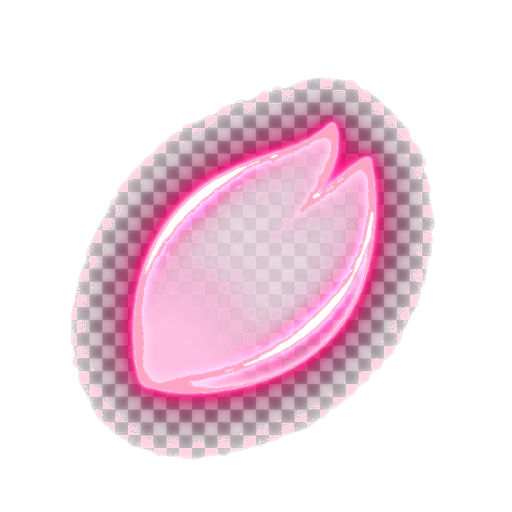
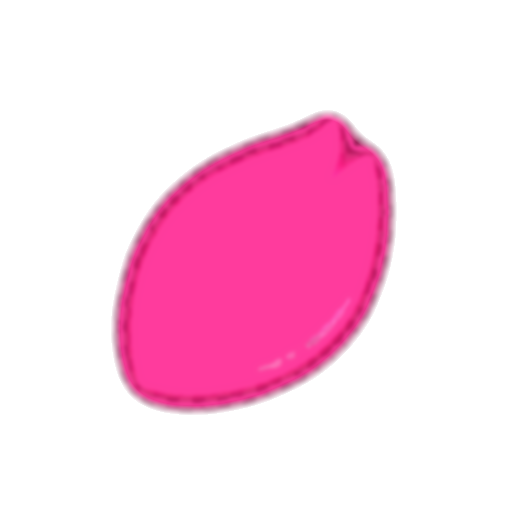
feat: petal_01/02 + hold_line_glow 체커 제거 smoothing
- petal_01/02 (smooth_petal.py):
  · 솔리드 외곽선(alpha>220, r>g+30) 감지 → dilate(5) + fill_holes 로 내부 메꿈
  · 내부 파스텔 핑크 (mean×1.25/1.45/1.30) 로 fill
  · 마스크 가우시안(sigma=12) + threshold 로 smooth 경계
  · 결과: 깔끔한 솔리드 핑크 꽃잎, 외곽 halo 체커 제거
- hold_line_glow (smooth_checker.py, sigma 8/4):
  · RGB + alpha 가우시안으로 외곽 dot-pattern 제거
  · 중앙 핑크 바 유지, 상하단 halo smooth
- 원본들 versions/hit_effect_raw_before_chroma/ 에 보관

diff --git a/index.html b/index.html
@@ -13,7 +13,7 @@
 <script>
 // ★ 빌드 타임스탬프 — 매 index.html 업데이트 시 자동 증가. 업데이트 감지용.
 // diag: gamble revert + 업데이트 감지 진단 강화 (__BUILD_TS 선곡화면 노출)
-window.__BUILD_TS = 20260422133140;
+window.__BUILD_TS = 20260422134300;
 // ★ Firebase goOffline 부작용 — 인게임 진입 시 fbDb.goOffline() 호출하면 in-flight 중이던
 //   .set()/.once() Promise 들이 "Error: disconnect" 로 reject. 모두 fire-and-forget (결과 무관)
 //   이라 의도된 현상이지만 .catch 없이 쏘고 있어 "Uncaught (in promise)" 경고 스팸 발생.
@@ -870,7 +870,7 @@ if (typeof ResizeObserver !== 'undefined') {
 // 로컬 개발: '' (빈 문자열 = 상대경로)
 // 배포: GitHub+jsdelivr CDN URL로 변경
 // 예: 'https://cdn.jsdelivr.net/gh/유저명/리포명@main/'
-const CDN_BASE = 'https://cdn.jsdelivr.net/gh/beomheekim-code/nanorhythm-assets@33a41c8/';
+const CDN_BASE = 'https://cdn.jsdelivr.net/gh/beomheekim-code/nanorhythm-assets@a1a8192/';
 
 function assetUrl(path) { return CDN_BASE + path; }
 

diff --git a/scripts/smooth_petal.py b/scripts/smooth_petal.py
@@ -1,0 +1,72 @@
+# -*- coding: utf-8 -*-
+"""
+petal 전용 — 외곽선 유지 + 내부 hollow fill + halo 체커 블러.
+"""
+import sys, io
+sys.stdout = io.TextIOWrapper(sys.stdout.buffer, encoding='utf-8')
+from PIL import Image
+import numpy as np
+from scipy.ndimage import gaussian_filter, binary_fill_holes, binary_dilation
+
+SRC = sys.argv[1]
+DST = sys.argv[2]
+
+
+def process():
+    im = Image.open(SRC).convert('RGBA')
+    a = np.array(im)
+    H, W = a.shape[:2]
+    r = a[:,:,0].astype(np.float32)
+    g = a[:,:,1].astype(np.float32)
+    b = a[:,:,2].astype(np.float32)
+    alpha = a[:,:,3].astype(np.float32)
+
+    # Pass 1: 솔리드 외곽선 mask
+    solid_mask = (alpha > 220) & (r > g + 30)
+
+    # Pass 2: 외곽선 채워 내부 메꿈
+    dilated = binary_dilation(solid_mask, iterations=5)
+    filled = binary_fill_holes(dilated)
+    inside = filled & ~solid_mask
+    if solid_mask.sum() > 0:
+        mean_r = float(r[solid_mask].mean())
+        mean_g = float(g[solid_mask].mean())
+        mean_b = float(b[solid_mask].mean())
+        # 내부 파스텔 핑크
+        fill_r = min(255, mean_r * 1.25)
+        fill_g = min(255, mean_g * 1.45)
+        fill_b = min(255, mean_b * 1.30)
+        r[inside] = fill_r
+        g[inside] = fill_g
+        b[inside] = fill_b
+
+    # Pass 3: 마스크 가우시안으로 경계 부드럽게 + threshold 로 깔끔한 outline
+    mask_f = filled.astype(np.float32) * 255
+    mask_smooth = gaussian_filter(mask_f, sigma=12)
+    # threshold 100 이상 → 불투명 core, 30~100 → fade, <30 → 투명
+    alpha = np.where(
+        mask_smooth > 140,
+        255,
+        np.where(mask_smooth > 60, (mask_smooth - 60) * 255 / 80, 0)
+    ).astype(np.float32)
+    # RGB 도 솔리드 근처만 smooth
+    rgb_full = np.stack([r, g, b], axis=-1)
+    rgb_smooth = np.stack([
+        gaussian_filter(r, sigma=2),
+        gaussian_filter(g, sigma=2),
+        gaussian_filter(b, sigma=2),
+    ], axis=-1)
+    r, g, b = rgb_smooth[:,:,0], rgb_smooth[:,:,1], rgb_smooth[:,:,2]
+    alpha[alpha < 15] = 0
+
+    out = np.dstack([
+        np.clip(r, 0, 255).astype(np.uint8),
+        np.clip(g, 0, 255).astype(np.uint8),
+        np.clip(b, 0, 255).astype(np.uint8),
+        np.clip(alpha, 0, 255).astype(np.uint8),
+    ])
+    Image.fromarray(out).save(DST)
+    print(f'{W}x{H}  solid_outline={solid_mask.sum()}  filled_interior={inside.sum()}')
+
+
+process()

diff --git a/scripts/smooth_checker.py b/scripts/smooth_checker.py
@@ -1,0 +1,51 @@
+# -*- coding: utf-8 -*-
+"""
+일반 체커 제거 스크립트.
+RGB 가우시안 블러 (sigma=15) + 알파 블러 (sigma=8) 로 체커 패턴 뭉개기.
+원본 형태/실루엣은 유지, 내부 dot-pattern 만 smooth out.
+
+사용: python smooth_checker.py <in.png> <out.png> [rgb_sigma] [alpha_sigma]
+"""
+import sys, io
+sys.stdout = io.TextIOWrapper(sys.stdout.buffer, encoding='utf-8')
+from PIL import Image
+import numpy as np
+from scipy.ndimage import gaussian_filter
+
+SRC = sys.argv[1]
+DST = sys.argv[2]
+RGB_SIGMA = float(sys.argv[3]) if len(sys.argv) > 3 else 15
+ALPHA_SIGMA = float(sys.argv[4]) if len(sys.argv) > 4 else 8
+
+
+def process():
+    im = Image.open(SRC).convert('RGBA')
+    a = np.array(im)
+    H, W = a.shape[:2]
+    r = a[:,:,0].astype(np.float32)
+    g = a[:,:,1].astype(np.float32)
+    b = a[:,:,2].astype(np.float32)
+    alpha = a[:,:,3].astype(np.float32)
+
+    # RGB 블러 — 체커 패턴 뭉개기
+    r = gaussian_filter(r, sigma=RGB_SIGMA)
+    g = gaussian_filter(g, sigma=RGB_SIGMA)
+    b = gaussian_filter(b, sigma=RGB_SIGMA)
+
+    # 알파 블러 — dot pattern 알파 smoothing
+    alpha = gaussian_filter(alpha, sigma=ALPHA_SIGMA)
+
+    # 너무 작은 잔티 제거
+    alpha[alpha < 10] = 0
+
+    out = np.dstack([
+        np.clip(r, 0, 255).astype(np.uint8),
+        np.clip(g, 0, 255).astype(np.uint8),
+        np.clip(b, 0, 255).astype(np.uint8),
+        np.clip(alpha, 0, 255).astype(np.uint8),
+    ])
+    Image.fromarray(out).save(DST)
+    print(f'{W}x{H}  rgb_sigma={RGB_SIGMA}  alpha_sigma={ALPHA_SIGMA}')
+
+
+process()
